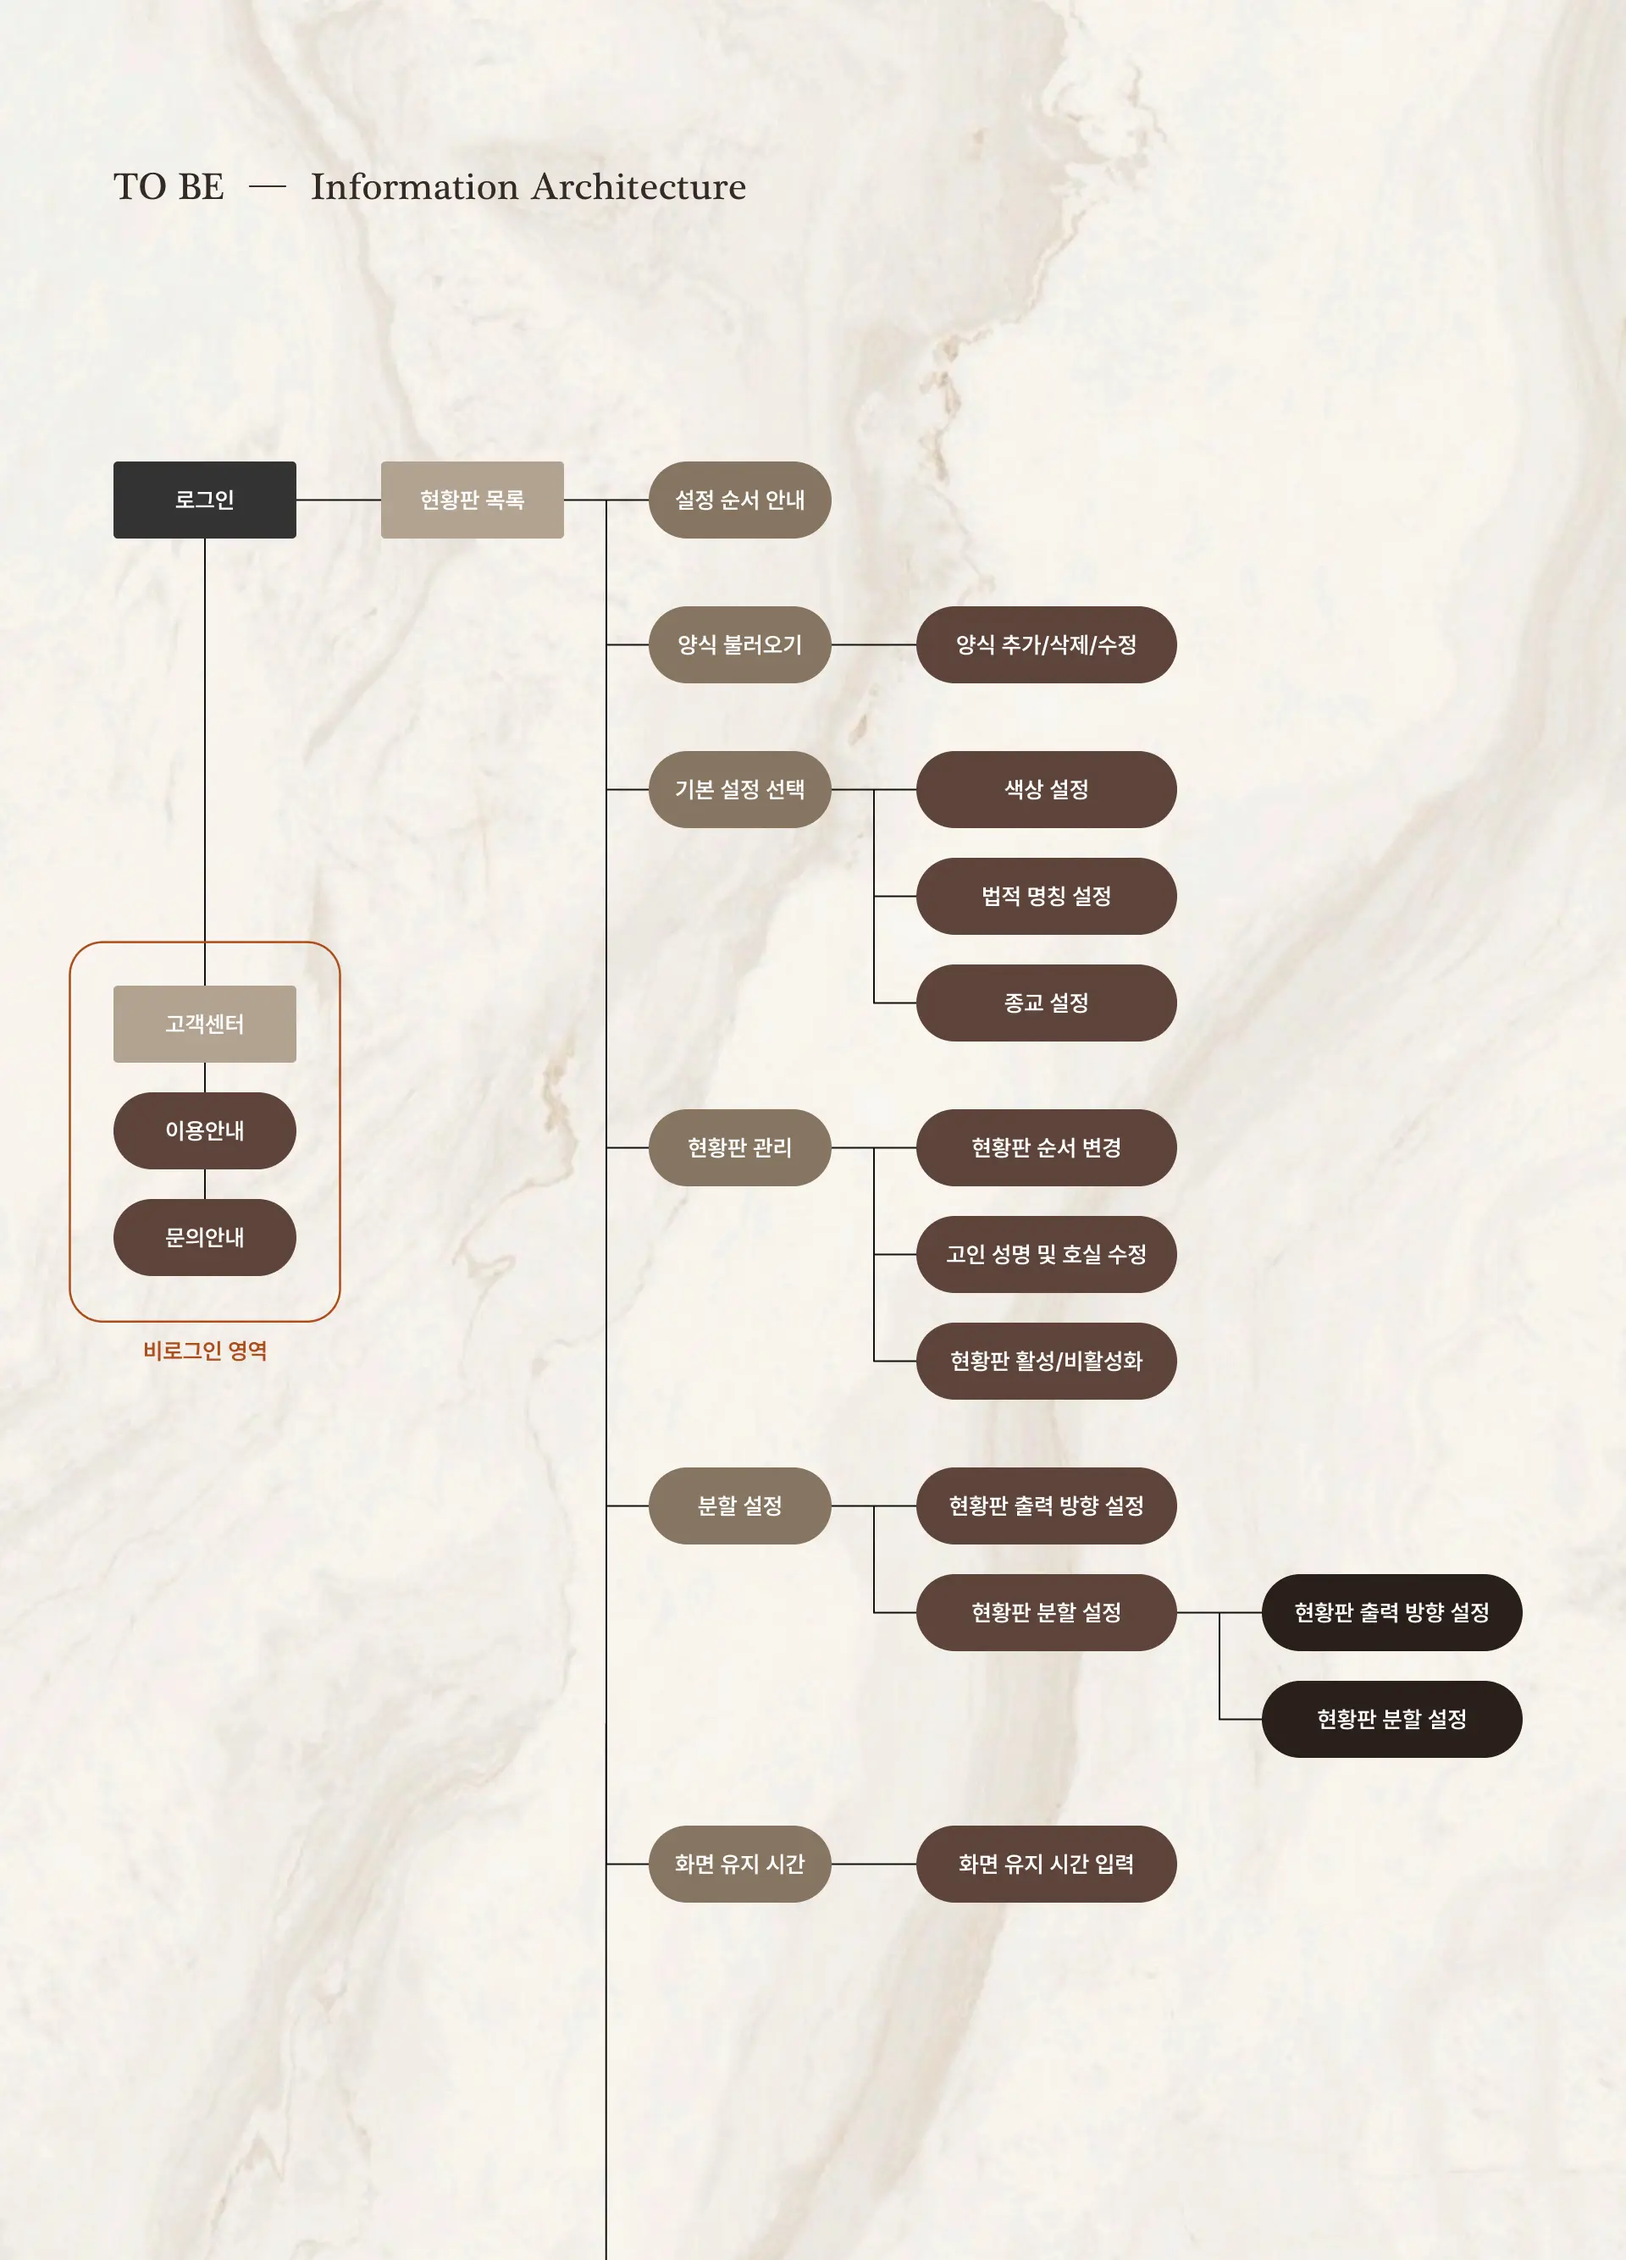
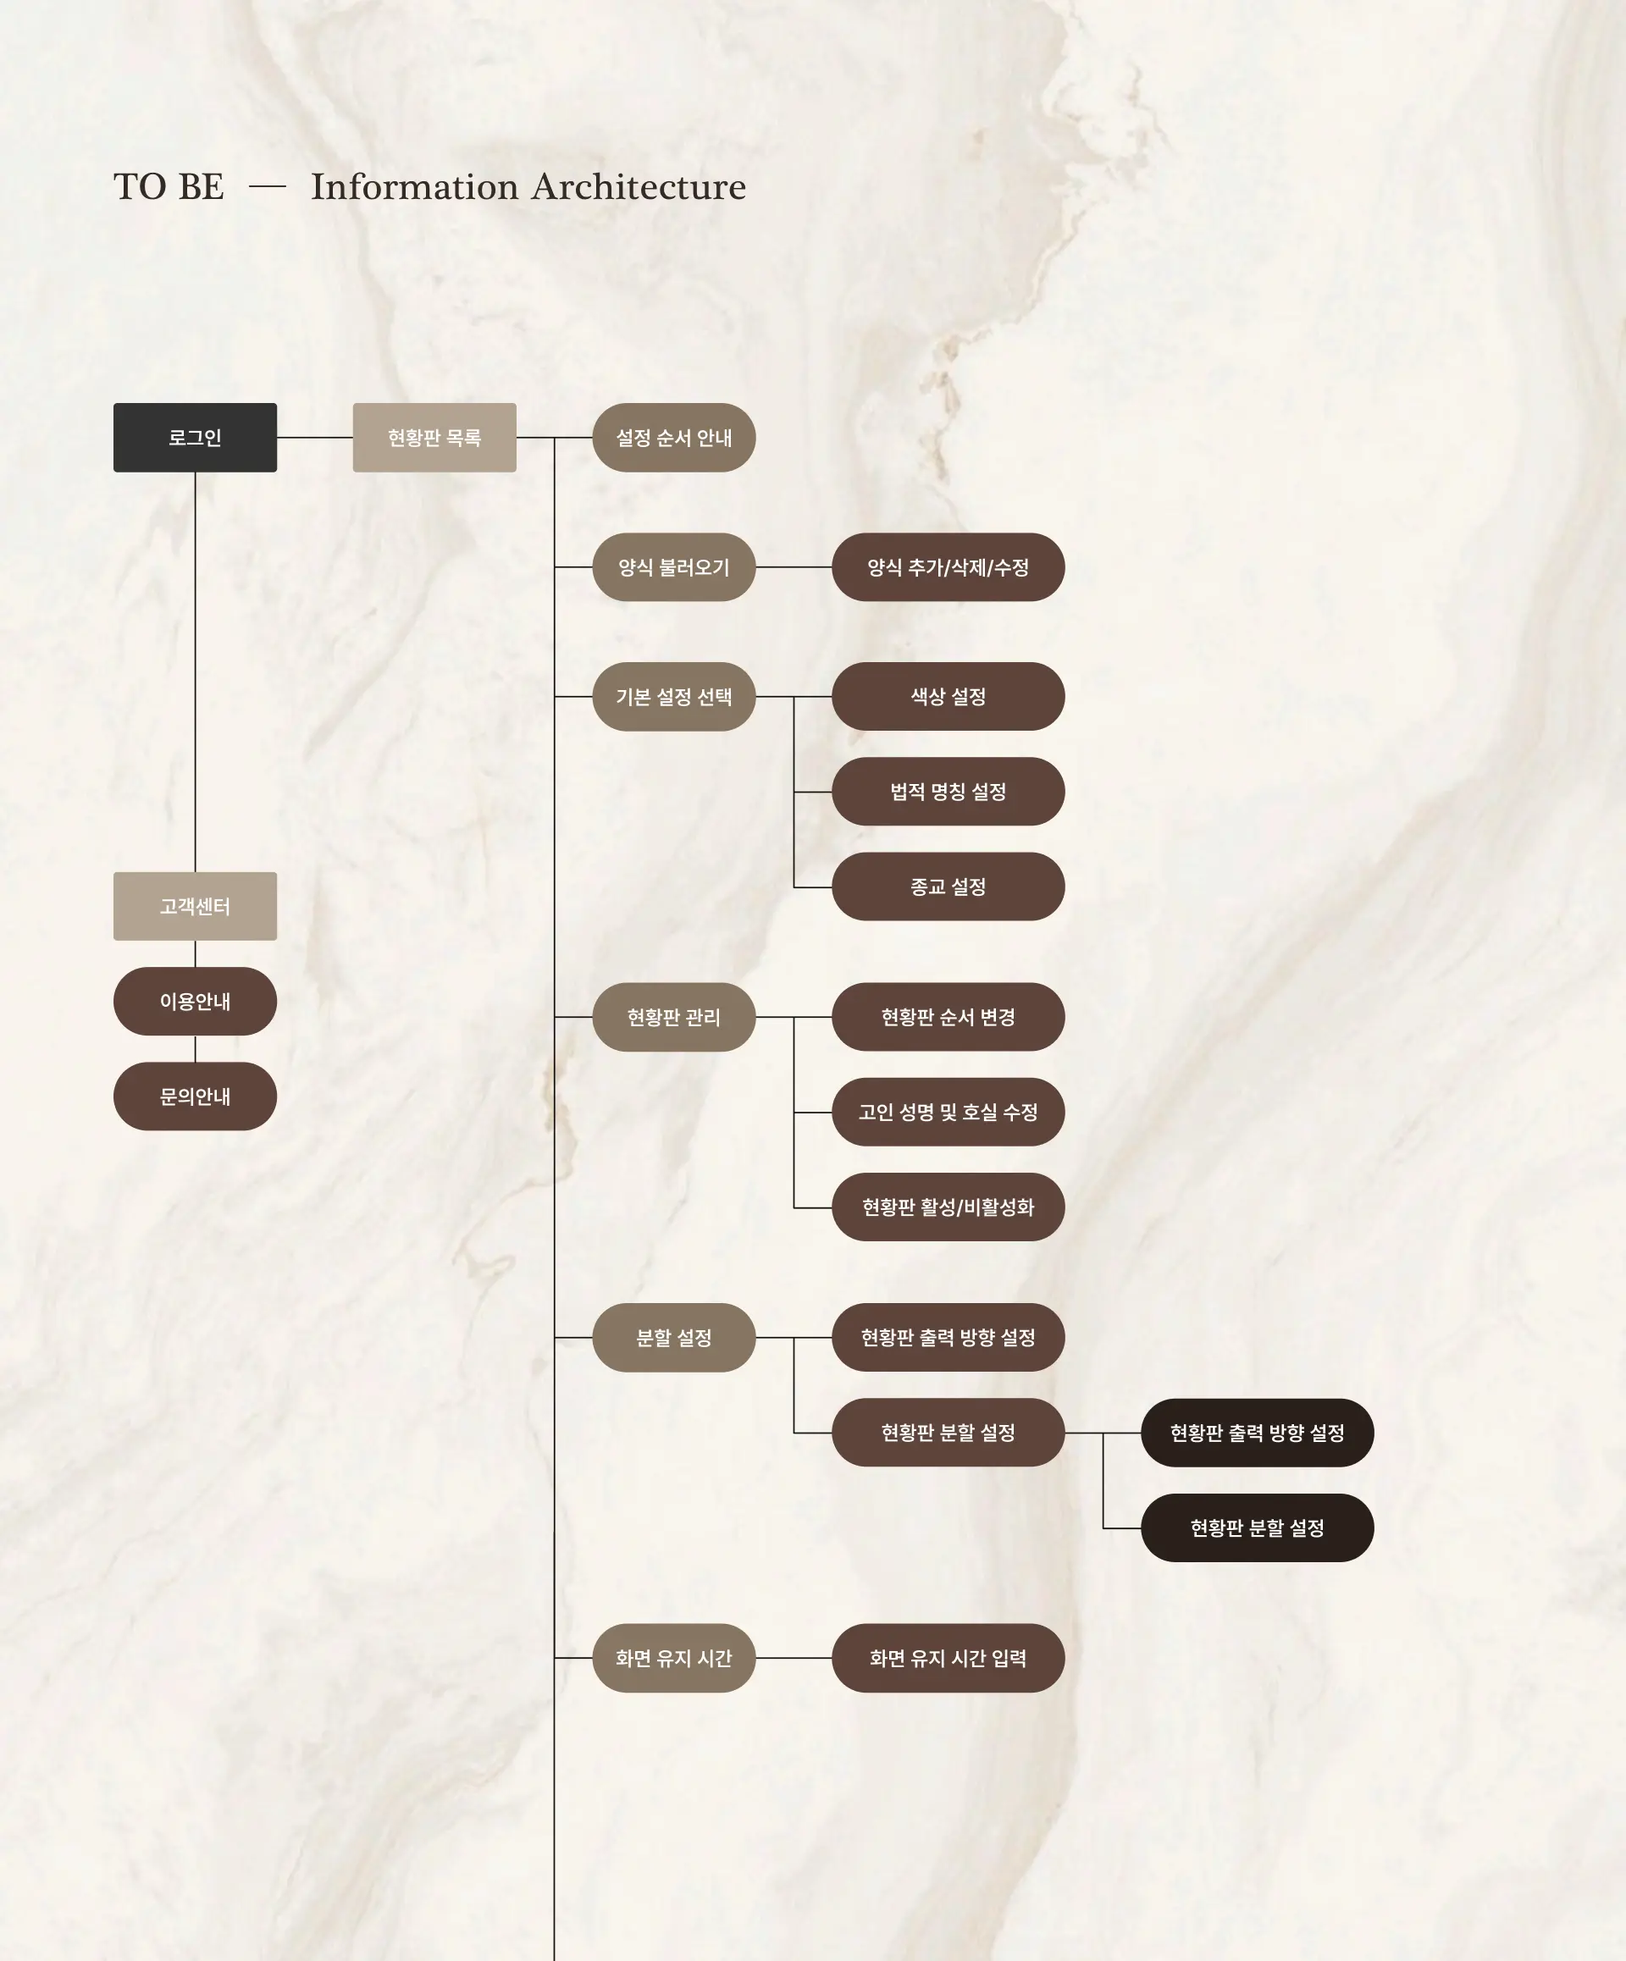
추모 IA 이미지 재교체 + 목차 라벨 'Information Architecture (IA)' → 'Information Architecture'

diff --git a/src/App.tsx b/src/App.tsx
@@ -180,7 +180,7 @@ const PROJECTS: Project[] = [
       { id: 'status-solution-1', title: 'Solution 1', parentTitle: 'Status Board', image: 'Choomo/2-2.Solution-1.webp', hideFromToc: true },
       { id: 'admin-issue', title: 'Issue', parentTitle: 'Management Page (Admin)', image: 'Choomo/3-1.Issue.webp' },
       { id: 'admin-solution', title: 'Solution', parentTitle: 'Management Page (Admin)', image: 'Choomo/3-2.Solution.webp' },
-      { id: 'admin-ia', title: 'Information Architecture (IA)', parentTitle: 'Management Page (Admin)', image: 'Choomo/3-3.Information Architecture.webp' },
+      { id: 'admin-ia', title: 'Information Architecture', parentTitle: 'Management Page (Admin)', image: 'Choomo/3-3.Information Architecture.webp' },
       { id: 'result', title: 'Result', image: 'Choomo/4.Result.webp' }
     ]
   },
